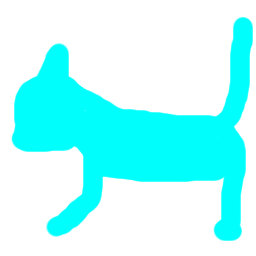
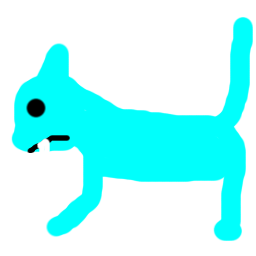
Update documentation. Make NPC graphics look more dangerous.

Changed region(s): [[0.0938, 0.5, 0.2812, 0.5938], [0.0938, 0.375, 0.1875, 0.4688]]

diff --git a/documentation/timesheet.md b/documentation/timesheet.md
@@ -28,5 +28,6 @@ Time used for the project.
   <tr><td>     </td><td> 1.0</td><td>User interface.</td></tr>
   <tr><td>     </td><td> 0.5</td><td>Graphic assets.</td></tr>
   <tr><td> 7.4.</td><td> 1.0</td><td>Documentation (architecture).</td></tr>
-  <tr><th>Total</th><th>36.5</th><th></th></tr>
+  <tr><td>     </td><td> 1.0</td><td>Game logic and some refactoring.</td></tr>
+  <tr><th>Total</th><th>37.5</th><th></th></tr>
 </table>
